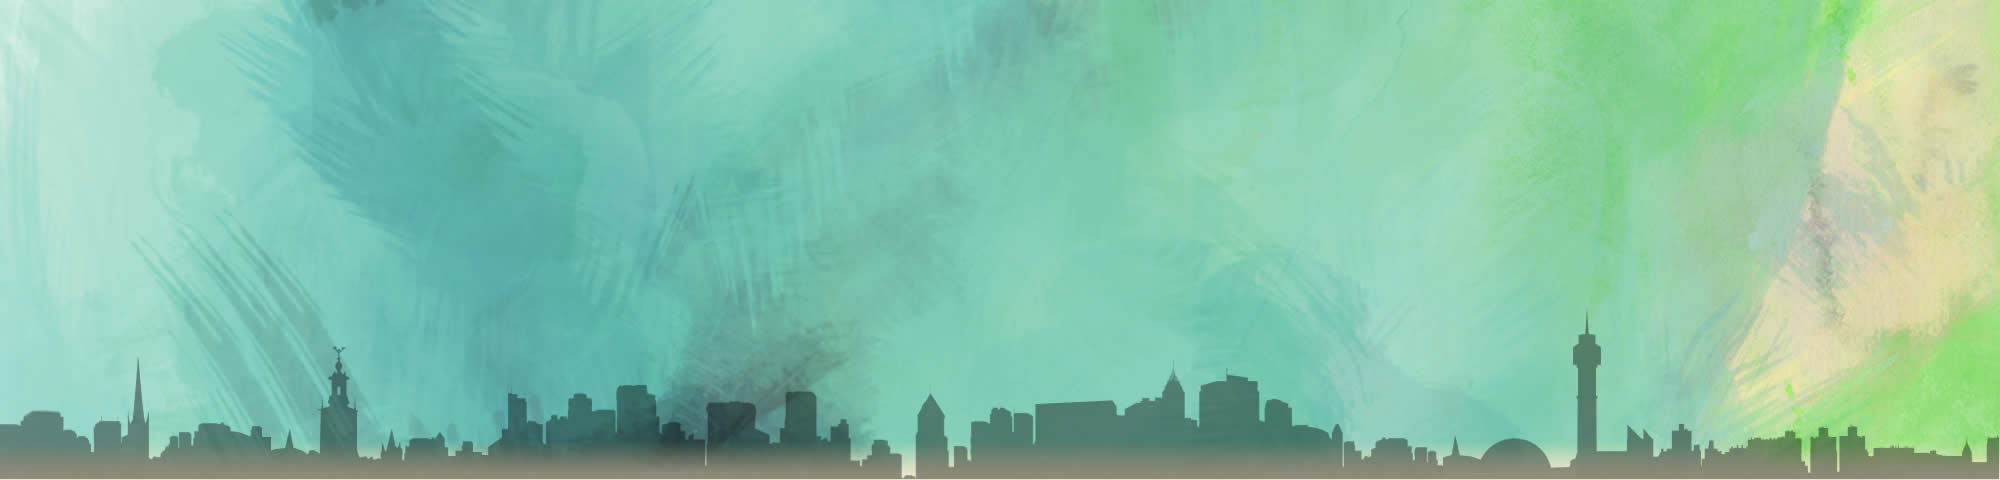
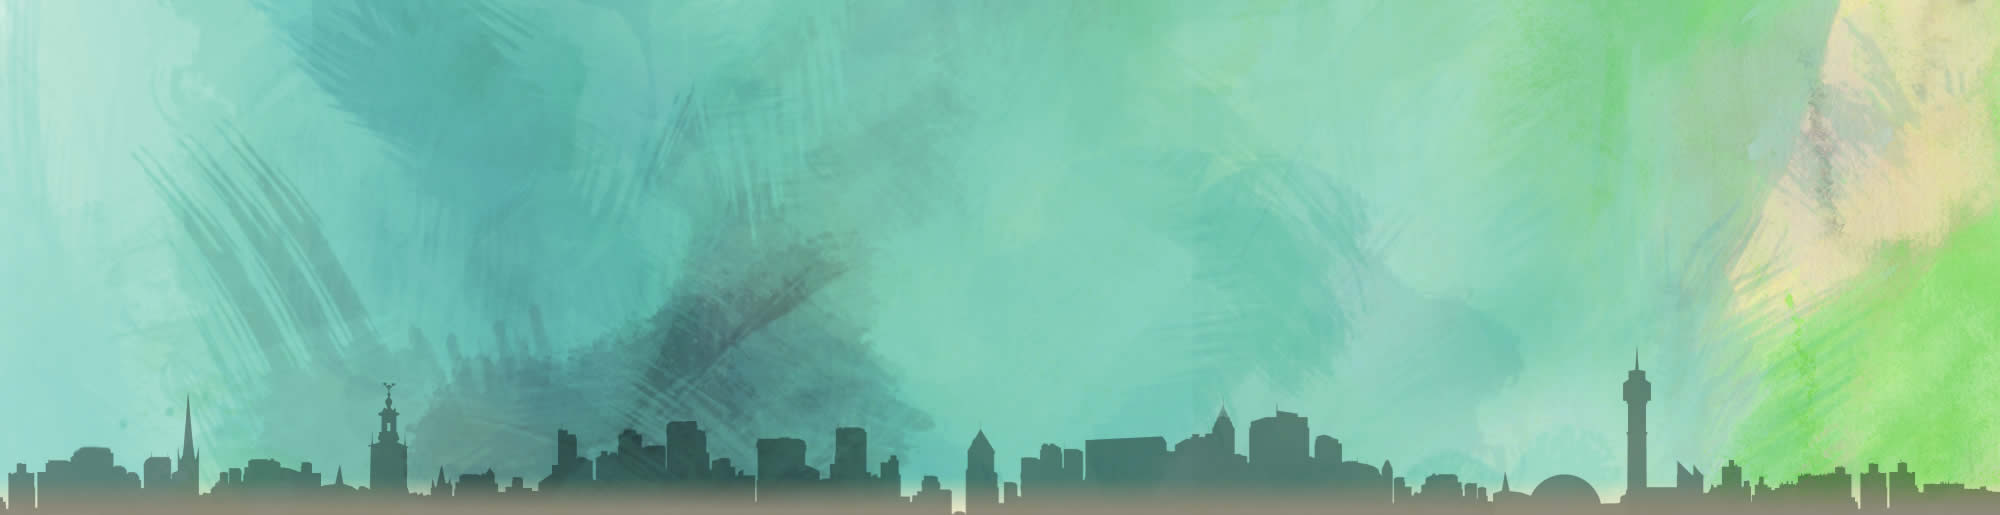
Adds theming to secondary menu

diff --git a/web/profiles/drupalse/themes/drupalcamp/css/styles.css b/web/profiles/drupalse/themes/drupalcamp/css/styles.css
@@ -15,7 +15,7 @@ body {
 }
 
 #page {
-  background: url("../images/bg-triangles.png") no-repeat scroll 0 478px transparent;
+  background: url("../images/bg-triangles.png") no-repeat scroll 0 515px transparent;
   padding:0px 10px 10px 10px;
   min-height: 820px;
 }
@@ -107,8 +107,8 @@ body {
 
 .menu-name-secondary-links {
   float:right;
-  background: url(../images/bg-white.png) 0px -10px;
-  padding:5px;
+  background-color:#5e8371;
+  padding:4px;
   -webkit-border-bottom-right-radius: 5px;
   -webkit-border-bottom-left-radius: 5px;
   -moz-border-radius-bottomright: 5px;
@@ -117,36 +117,23 @@ body {
   border-bottom-left-radius: 5px;
 }
 
-.menu-name-secondary-links ul {
-  float:left;
-  background-color:#FFFFFF;
-  padding:3px;
-  -webkit-border-bottom-right-radius: 3px;
-  -webkit-border-bottom-left-radius: 3px;
-  -moz-border-radius-bottomright: 3px;
-  -moz-border-radius-bottomleft: 3px;
-  border-bottom-right-radius: 3px;
-  border-bottom-left-radius: 3px;
-}
-
 .menu-name-secondary-links ul li {
   list-style-type:none;
   list-style-image:none; 
   float:left;
-  padding:0 16px;
+  padding:0 10px;
 }
 
 .menu-name-secondary-links ul li a,
 .menu-name-secondary-links ul li a:link,
 .menu-name-secondary-links ul li a:visited{
-  font-size:16px;
+  font-size:14px;
   font-family: "HelveticaNeue-Light", "Helvetica Neue Light", "Helvetica Neue", Helvetica, Arial, sans-serif;
-  color:#666;
-  text-transform:uppercase;
+  color:#fff;  
 }
 .menu-name-secondary-links ul li a:hover,
 .menu-name-secondary-links ul li a.active {
-  color:#56A79E;
+  color:#fff;  
 }
 
 /**
